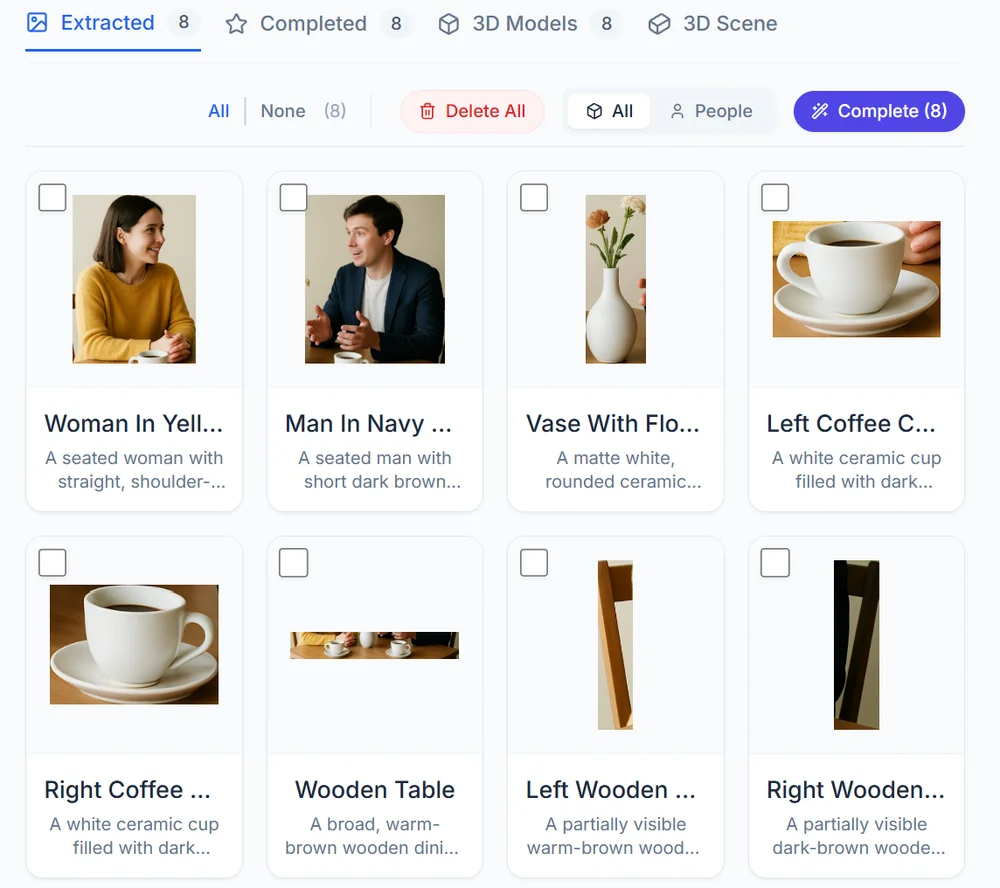
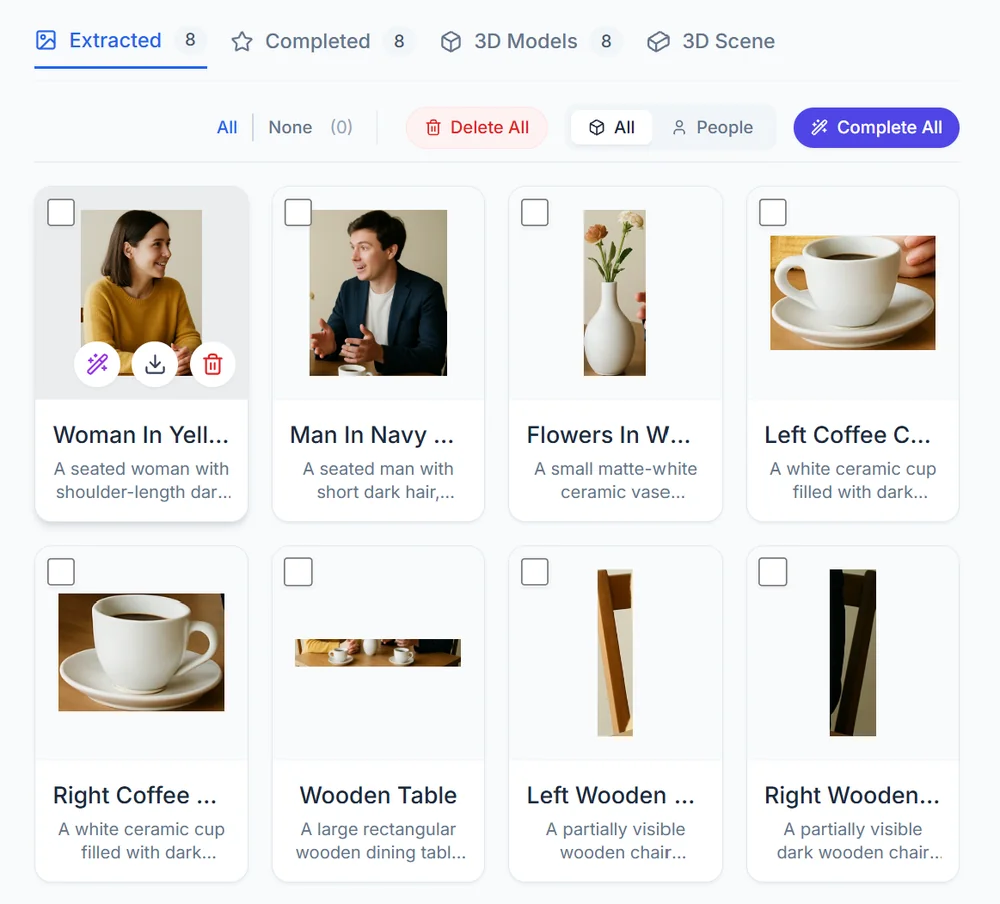
OpenAI by default; RMBG disabled with OpenAI completion; new README images
- AI Settings: OpenAI is the default provider for detection and completion
  and is listed before Gemini (providers, keys, models); RMBG 2.0 is listed
  before 3.0. The background-removal choice and its Space fields are disabled
  while OpenAI does the completion (its output is already transparent).
- README images replaced with current results (OpenAI + TRELLIS.2, scene with
  orientation estimation, paper placement); captions updated (EN/JP)
- README tables, .env.example order, CHANGELOG

Claude-Session: https://claude.ai/code/session_017F2L64VSaLMVjz2Lii7x6Z

diff --git a/components/AISettingsDialog.tsx b/components/AISettingsDialog.tsx
@@ -1,7 +1,7 @@
 import React from 'react';
 import { X, RotateCcw } from 'lucide-react';
 import { AIKeys, AIModels, AIProvider, AISettings, HFSpaces } from '../types';
-import { BG_REMOVAL_LABELS, BG_REMOVAL_SPACE_KEY, DEFAULT_MODELS, DEFAULT_SPACES, MODEL_SUGGESTIONS, PROVIDER_LABELS } from '../services/ai/models';
+import { BG_REMOVAL_LABELS, BG_REMOVAL_SPACE_KEY, DEFAULT_MODELS, DEFAULT_SPACES, MODEL_SUGGESTIONS, PROVIDER_LABELS, usesBgRemoval } from '../services/ai/models';
 
 interface Props {
   settings: AISettings;
@@ -10,13 +10,13 @@ interface Props {
 }
 
 const KEY_FIELDS: { key: keyof AIKeys; label: string; placeholder: string }[] = [
-  { key: 'gemini', label: 'Google Gemini API key', placeholder: 'AIza...' },
   { key: 'openai', label: 'OpenAI API key', placeholder: 'sk-...' },
+  { key: 'gemini', label: 'Google Gemini API key', placeholder: 'AIza...' },
 ];
 
 const SPACE_FIELDS: { key: keyof HFSpaces; label: string }[] = [
-  { key: 'rmbg', label: 'BRIA RMBG 3.0' },
   { key: 'rmbg2', label: 'BRIA RMBG 2.0' },
+  { key: 'rmbg', label: 'BRIA RMBG 3.0' },
   { key: 'depth', label: 'Depth estimation' },
   { key: 'trellis', label: 'TRELLIS.2' },
   { key: 'hunyuan3d', label: 'Hunyuan3D-2.1' },
@@ -24,24 +24,26 @@ const SPACE_FIELDS: { key: keyof HFSpaces; label: string }[] = [
 ];
 
 const MODEL_FIELDS: { key: keyof AIModels; label: string; provider: AIProvider; role: 'vision' | 'image' }[] = [
-  { key: 'geminiVision', label: 'Gemini (detection)', provider: 'gemini', role: 'vision' },
   { key: 'openaiVision', label: 'OpenAI (detection)', provider: 'openai', role: 'vision' },
-  { key: 'geminiImage', label: 'Gemini (completion)', provider: 'gemini', role: 'image' },
+  { key: 'geminiVision', label: 'Gemini (detection)', provider: 'gemini', role: 'vision' },
   { key: 'openaiImage', label: 'OpenAI (completion)', provider: 'openai', role: 'image' },
+  { key: 'geminiImage', label: 'Gemini (completion)', provider: 'gemini', role: 'image' },
 ];
 
-const SegmentedButtons = <T extends string>({ options, value, onSelect }: {
+const SegmentedButtons = <T extends string>({ options, value, onSelect, disabled = false }: {
   options: Record<T, string>;
   value: T;
   onSelect: (value: T) => void;
+  disabled?: boolean;
 }) => (
-  <div className="inline-flex bg-slate-100 rounded-lg p-0.5">
+  <div className={`inline-flex bg-slate-100 rounded-lg p-0.5 ${disabled ? 'opacity-50' : ''}`}>
     {(Object.keys(options) as T[]).map(option => (
       <button
         key={option}
         type="button"
+        disabled={disabled}
         onClick={() => onSelect(option)}
-        className={`px-3 py-1 text-sm rounded-md transition-colors ${value === option ? 'bg-white text-blue-700 font-medium shadow-sm' : 'text-slate-500 hover:text-slate-700'}`}
+        className={`px-3 py-1 text-sm rounded-md transition-colors disabled:cursor-not-allowed ${value === option ? 'bg-white text-blue-700 font-medium shadow-sm' : 'text-slate-500 enabled:hover:text-slate-700'}`}
       >
         {options[option]}
       </button>
@@ -57,8 +59,9 @@ export const AISettingsDialog: React.FC<Props> = ({ settings, onChange, onClose 
 
   const neededKeys = new Set<AIProvider>([settings.visionProvider, settings.imageProvider]);
   // Only the Space of the selected background-removal model is used
+  const bgRemovalUsed = usesBgRemoval(settings);
   const isSpaceActive = (key: keyof HFSpaces) =>
-    (key !== 'rmbg' && key !== 'rmbg2') || key === BG_REMOVAL_SPACE_KEY[settings.bgRemoval];
+    (key !== 'rmbg' && key !== 'rmbg2') || (bgRemovalUsed && key === BG_REMOVAL_SPACE_KEY[settings.bgRemoval]);
   const isActive = (field: typeof MODEL_FIELDS[number]) =>
     field.role === 'vision' ? field.provider === settings.visionProvider : field.provider === settings.imageProvider;
 
@@ -102,9 +105,12 @@ export const AISettingsDialog: React.FC<Props> = ({ settings, onChange, onClose 
                 options={BG_REMOVAL_LABELS}
                 value={settings.bgRemoval}
                 onSelect={bgRemoval => update({ bgRemoval })}
+                disabled={!bgRemovalUsed}
               />
               <p className="mt-1 text-xs text-slate-500">
-                Used after Gemini completion (OpenAI completions are already transparent). RMBG 3.0 is the newer model; RMBG 2.0 is much lighter (a duplicate runs on a T4).
+                {bgRemovalUsed
+                  ? 'Used after Gemini completion. RMBG 2.0 is much lighter (a duplicate runs on a T4); RMBG 3.0 is the newer model.'
+                  : 'Not used: OpenAI completions already have a transparent background.'}
               </p>
             </div>
           </section>
@@ -185,7 +191,8 @@ export const AISettingsDialog: React.FC<Props> = ({ settings, onChange, onClose 
                   value={settings.spaces[field.key]}
                   placeholder={DEFAULT_SPACES[field.key]}
                   onChange={e => setSpace(field.key, e.target.value)}
-                  className="flex-1 min-w-0 px-2 py-1 text-sm border border-slate-300 rounded-md focus:outline-none focus:border-blue-500 font-mono"
+                  disabled={(field.key === 'rmbg' || field.key === 'rmbg2') && !bgRemovalUsed}
+                  className="flex-1 min-w-0 px-2 py-1 text-sm border border-slate-300 rounded-md focus:outline-none focus:border-blue-500 font-mono disabled:bg-slate-50 disabled:text-slate-400"
                 />
               </label>
             ))}

diff --git a/services/ai/models.ts b/services/ai/models.ts
@@ -41,15 +41,23 @@ export const MODEL_SUGGESTIONS: Record<keyof AIModels, string[]> = {
   openaiImage: ['gpt-image-2.6-sunburst', 'gpt-image-2.6-flare', 'gpt-image-2'],
 };
 
+// Key order is the display order (OpenAI first: it is the default)
 export const PROVIDER_LABELS: Record<AIProvider, string> = {
-  gemini: 'Gemini',
   openai: 'OpenAI',
+  gemini: 'Gemini',
 };
 
+// Key order is the display order
 export const BG_REMOVAL_LABELS: Record<BgRemovalModel, string> = {
-  rmbg3: 'RMBG 3.0',
   rmbg2: 'RMBG 2.0',
+  rmbg3: 'RMBG 3.0',
 };
+
+/**
+ * True when background removal is used: only after Gemini completion.
+ * OpenAI completions already have a transparent background.
+ */
+export const usesBgRemoval = (settings: AISettings): boolean => settings.imageProvider !== 'openai';
 
 /** Space settings key of each background-removal model */
 export const BG_REMOVAL_SPACE_KEY: Record<BgRemovalModel, keyof HFSpaces> = {
@@ -91,8 +99,8 @@ const FORMER_DEFAULTS: { models: Partial<Record<keyof AIModels, string[]>>; spac
  */
 export const loadAISettings = (): AISettings => {
   const settings: AISettings = {
-    visionProvider: 'gemini',
-    imageProvider: 'gemini',
+    visionProvider: 'openai',
+    imageProvider: 'openai',
     bgRemoval: 'rmbg3',
     keys: {
       gemini: import.meta.env.VITE_GEMINI_API_KEY || '',

diff --git a/README-jp.md b/README-jp.md
@@ -25,9 +25,9 @@
 
 | # | フェーズ | 手法 |
 |---|---|---|
-| 1 | 物体検出 | VLM（Gemini または OpenAI）でバウンディングボックス、ラベル、詳細な説明（姿勢・動作・服装）を取得 |
+| 1 | 物体検出 | VLM（OpenAI または Gemini）でバウンディングボックス、ラベル、詳細な説明（姿勢・動作・服装）を取得 |
 | 2 | 切り出し | HTML5 Canvas API |
-| 3 | 画像補完 | 生成AI（Gemini または OpenAI の画像生成）によるアウトペインティングで、姿勢を保ったまま隠れた部分や切れた部分を復元し、背景を除去（BRIA RMBG 3.0 または 2.0） |
+| 3 | 画像補完 | 生成AI（OpenAI または Gemini の画像生成）によるアウトペインティングで、姿勢を保ったまま隠れた部分や切れた部分を復元。OpenAI は透明背景で返し、Gemini の場合は背景を除去（BRIA RMBG 2.0 または 3.0） |
 | 4 | 特徴点マッチング | AKAZE（OpenCV.js）、Lowe's Ratio Test、RANSAC による拡大率と移動量の推定（複数の縮小率で探索）で、元の切り出し画像が補完画像のどこにあたるかを特定（信頼できない場合は物体全体の枠を使用） |
 | 5 | 深度推定 | Depth Anything V2。物体の深度はマスク内の深度の中央値 |
 | 6 | 3D生成 | TRELLIS.2 または Hunyuan3D-2.1（Hugging Face Spaces）でテクスチャ付きGLBを生成 |
@@ -36,25 +36,27 @@
 
 ### 処理の流れ（サンプル画像）
 
+OpenAI（物体検出と画像補完）と TRELLIS.2（3D生成）を使った結果です。下の3Dシーンは、向きの推定を適用し、論文の配置（遠近による大きさの補正なし）で表示しています。
+
 <table>
   <tr>
     <td width="50%"><img src="docs/images/step1-detection.webp" alt="物体検出"><br><sub><b>1. 物体検出</b>：VLM が8物体のラベルと枠を取得</sub></td>
     <td width="50%"><img src="docs/images/step2-extracted.webp" alt="切り出し"><br><sub><b>2. 切り出し</b>：物体ごとに写真から切り出す</sub></td>
   </tr>
   <tr>
-    <td width="50%"><img src="docs/images/step3-completed.webp" alt="画像補完"><br><sub><b>3. 画像補完</b>：隠れた部分を生成し、背景を除去</sub></td>
+    <td width="50%"><img src="docs/images/step3-completed.webp" alt="画像補完"><br><sub><b>3. 画像補完</b>：隠れた部分を透明背景で生成（OpenAI）。緑の枠は写真に写っていた部分</sub></td>
     <td width="50%"><img src="docs/images/step4-3d-models.webp" alt="3Dモデル"><br><sub><b>6. 3D生成</b>：物体ごとにテクスチャ付き3Dモデルを生成（TRELLIS.2）</sub></td>
   </tr>
   <tr>
     <td width="50%"><img src="docs/images/step5-depth-map.webp" alt="深度マップ"><br><sub><b>5. 深度推定</b>：Depth Anything V2（明るいほど手前）</sub></td>
-    <td width="50%"><img src="docs/images/scene-result.webp" alt="3Dシーン"><br><sub><b>7. シーン合成</b>：各モデルを PC Box の奥行きに配置（人物、花瓶、カップ）</sub></td>
+    <td width="50%"><img src="docs/images/scene-result.webp" alt="3Dシーン"><br><sub><b>7〜8. シーン合成と向きの推定</b>：8つのモデルを PC Box の奥行きに配置し、推定した向きに回転</sub></td>
   </tr>
 </table>
 
 ## 必要な環境
 
 - Node.js 18以上
-- **Google Gemini または OpenAI の APIキー**（物体検出と画像補完で別々のプロバイダーを使う場合は両方）
+- **OpenAI または Google Gemini の APIキー**（物体検出と画像補完で別々のプロバイダーを使う場合は両方）
 - **Hugging Face トークン**（TRELLIS.2 / Hunyuan3D-2.1 による3D生成では必須。背景除去と深度推定でも推奨。ZeroGPUの利用分が各自の枠で計上されます）。Hugging Face の **Settings → Access Tokens** で **Read** のトークンを作り、アプリの画面右上の **HF Token** 欄に入力します。詳しくは [docs/hugging-face-spaces-jp.md](docs/hugging-face-spaces-jp.md) を参照してください
 
 ## セットアップ
@@ -94,10 +96,10 @@ AI Settings では次の項目を設定できます。
 
 | 項目 | 内容 |
 |---|---|
-| Object detection & checks | 物体検出・チェックに使う AI（Gemini / OpenAI） |
-| Image completion | 画像補完に使う AI（Gemini / OpenAI） |
-| Background removal | 背景除去のモデル（RMBG 3.0 / RMBG 2.0） |
-| API keys | Gemini と OpenAI の API キー |
+| Object detection & checks | 物体検出・チェックに使う AI（OpenAI / Gemini。既定は OpenAI） |
+| Image completion | 画像補完に使う AI（OpenAI / Gemini。既定は OpenAI） |
+| Background removal | 背景除去のモデル（RMBG 2.0 / RMBG 3.0）。Gemini で補完するときだけ使い、OpenAI を選んでいる間は選択できない |
+| API keys | OpenAI と Gemini の API キー |
 | Models | 使うモデルの ID |
 | Hugging Face Spaces | 背景除去・深度推定・3D 生成で使う Space の ID（複製した Space など） |
 
@@ -105,11 +107,12 @@ AI Settings では次の項目を設定できます。
 
 | 処理 | プロバイダー | 既定のモデル |
 |---|---|---|
-| 物体検出、キャンバス拡張量の推定、補完結果のチェック | Gemini / OpenAI | `gemini-pro-latest` / `gpt-5.6-sol` |
-| 画像補完（アウトペインティング） | Gemini / OpenAI | `gemini-3-pro-image` / `gpt-image-2.6-sunburst` |
+| 物体検出、キャンバス拡張量の推定、補完結果のチェック | OpenAI / Gemini | `gpt-5.6-sol` / `gemini-pro-latest` |
+| 画像補完（アウトペインティング） | OpenAI / Gemini | `gpt-image-2.6-sunburst` / `gemini-3-pro-image` |
 
 - OpenAI は補完画像を透明背景で返します。Gemini は透明背景を出力できないため、補完後に背景除去を行います。背景除去に失敗した場合は、補完画像のカードに表示されます。
-- 背景除去には **BRIA RMBG 3.0**（既定）または **BRIA RMBG 2.0** を使います。AI Settings の **Background removal** で選べます。どちらの Space も API は同じです。RMBG 2.0 はずっと軽く、複製すれば T4 で動きます。
+- 物体検出と画像補完の既定は、どちらも OpenAI です。
+- 背景除去には **BRIA RMBG 2.0** または **BRIA RMBG 3.0**（既定）を使います。AI Settings の **Background removal** で選べます。OpenAI で補完している間は背景除去を使わないので、選択できなくなります。どちらの Space も API は同じです。RMBG 2.0 はずっと軽く、複製すれば T4 で動きます。
 - モデルIDは頻繁に変わります。モデルが提供終了になった場合は、AI Settings で新しいIDを入力してください。コードの変更は不要です。
 - 論文の結果は `gemini-3-pro-preview` と `gemini-3-pro-image-preview`（どちらも提供終了）で得たものです。他のプロバイダーやモデルでも同じプロンプトを使いますが、検出精度や姿勢の保持には差が出る可能性があります。
 - APIキーはメモリ上にだけ保持します。プロバイダーとモデルIDはブラウザに記憶されます。
@@ -156,7 +159,7 @@ AI Settings では次の項目を設定できます。
 ├── components/             # Reactコンポーネント（3Dビューア、カード、オーバーレイ）
 ├── services/
 │   ├── aiService.ts        # 物体検出・補完・チェックのプロンプト
-│   └── ai/                 # プロバイダー層（Gemini / OpenAI）と既定のモデル
+│   └── ai/                 # プロバイダー層（OpenAI / Gemini）と既定のモデル
 ├── utils.ts                # 切り出し、AKAZEマッチング、深度推定、3D生成API
 ├── types.ts                # 型定義
 ├── samples/                # サンプル画像

diff --git a/README.md b/README.md
@@ -25,9 +25,9 @@ The sample photo [`samples/two-people-at-table.webp`](samples/two-people-at-tabl
 
 | # | Phase | Method |
 |---|---|---|
-| 1 | Object detection | Vision-Language Model (Gemini or OpenAI) returns bounding boxes, labels and detailed descriptions (pose, action, clothing) |
+| 1 | Object detection | Vision-Language Model (OpenAI or Gemini) returns bounding boxes, labels and detailed descriptions (pose, action, clothing) |
 | 2 | Cropping | HTML5 Canvas API |
-| 3 | Image completion | Generative AI outpainting (Gemini or OpenAI image generation) restores occluded / cut-off parts while preserving pose, followed by background removal (BRIA RMBG 3.0 or 2.0) |
+| 3 | Image completion | Generative AI outpainting (OpenAI or Gemini image generation) restores occluded / cut-off parts while preserving pose. OpenAI returns a transparent background; Gemini completions go through background removal (BRIA RMBG 2.0 or 3.0) |
 | 4 | Feature matching | AKAZE (OpenCV.js) + Lowe's ratio test + RANSAC fit of a scale + translation, searched at several image scales, to localize the original crop inside the completed image (unreliable matches fall back to the whole object) |
 | 5 | Depth estimation | Depth Anything V2; object depth is the median depth inside the object mask |
 | 6 | 3D generation | TRELLIS.2 or Hunyuan3D-2.1 (Hugging Face Spaces) → textured GLB |
@@ -36,25 +36,27 @@ The sample photo [`samples/two-people-at-table.webp`](samples/two-people-at-tabl
 
 ### Walkthrough (sample photo)
 
+Results with OpenAI (detection and completion) and TRELLIS.2 (3D generation). The scene below uses orientation estimation and the paper's placement (without the perspective size correction).
+
 <table>
   <tr>
     <td width="50%"><img src="docs/images/step1-detection.webp" alt="Object detection"><br><sub><b>1. Detection</b> — 8 objects with labels and boxes (VLM)</sub></td>
     <td width="50%"><img src="docs/images/step2-extracted.webp" alt="Extracted objects"><br><sub><b>2. Cropping</b> — each object cut out of the photo</sub></td>
   </tr>
   <tr>
-    <td width="50%"><img src="docs/images/step3-completed.webp" alt="Completed objects"><br><sub><b>3. Completion</b> — hidden parts generated, background removed</sub></td>
+    <td width="50%"><img src="docs/images/step3-completed.webp" alt="Completed objects"><br><sub><b>3. Completion</b> — hidden parts generated with a transparent background (OpenAI); the green box marks the part visible in the photo</sub></td>
     <td width="50%"><img src="docs/images/step4-3d-models.webp" alt="3D models"><br><sub><b>6. 3D generation</b> — one textured 3D model per object (TRELLIS.2)</sub></td>
   </tr>
   <tr>
     <td width="50%"><img src="docs/images/step5-depth-map.webp" alt="Depth map"><br><sub><b>5. Depth estimation</b> — Depth Anything V2 (brighter = nearer)</sub></td>
-    <td width="50%"><img src="docs/images/scene-result.webp" alt="3D scene"><br><sub><b>7. Scene composition</b> — models placed at the depth of their PC Boxes (people, vase and cups)</sub></td>
+    <td width="50%"><img src="docs/images/scene-result.webp" alt="3D scene"><br><sub><b>7–8. Scene composition and orientation</b> — all 8 models placed at the depth of their PC Boxes and rotated by their estimated orientation</sub></td>
   </tr>
 </table>
 
 ## Requirements
 
 - Node.js 18 or later
-- **An API key for Google Gemini or OpenAI** (or both, if you use one for detection and the other for completion)
+- **An API key for OpenAI or Google Gemini** (or both, if you use one for detection and the other for completion)
 - **Hugging Face token** (required for 3D generation with TRELLIS.2 / Hunyuan3D-2.1; recommended for background removal and depth estimation, since ZeroGPU usage is counted against your own quota). Create a **Read** token in **Settings → Access Tokens** on Hugging Face and enter it in the **HF Token** field at the top right of the app; see [docs/hugging-face-spaces.md](docs/hugging-face-spaces.md)
 
 ## Setup
@@ -94,10 +96,10 @@ In AI Settings you can set:
 
 | Section | What it sets |
 |---|---|
-| Object detection & checks | Provider for detection and checks (Gemini / OpenAI) |
-| Image completion | Provider for completion (Gemini / OpenAI) |
-| Background removal | Background-removal model (RMBG 3.0 / RMBG 2.0) |
-| API keys | Gemini and OpenAI API keys |
+| Object detection & checks | Provider for detection and checks (OpenAI / Gemini; default OpenAI) |
+| Image completion | Provider for completion (OpenAI / Gemini; default OpenAI) |
+| Background removal | Background-removal model (RMBG 2.0 / RMBG 3.0). Only used with Gemini completion; disabled when OpenAI is selected |
+| API keys | OpenAI and Gemini API keys |
 | Models | Model IDs |
 | Hugging Face Spaces | Space IDs for background removal, depth estimation and 3D generation (e.g. your duplicated Spaces) |
 
@@ -105,11 +107,12 @@ Default models:
 
 | Task | Providers | Default model |
 |---|---|---|
-| Object detection, canvas expansion estimate, completion check | Gemini / OpenAI | `gemini-pro-latest` / `gpt-5.6-sol` |
-| Image completion (outpainting) | Gemini / OpenAI | `gemini-3-pro-image` / `gpt-image-2.6-sunburst` |
+| Object detection, canvas expansion estimate, completion check | OpenAI / Gemini | `gpt-5.6-sol` / `gemini-pro-latest` |
+| Image completion (outpainting) | OpenAI / Gemini | `gpt-image-2.6-sunburst` / `gemini-3-pro-image` |
 
 - OpenAI returns completions with a transparent background. Gemini cannot, so its completions go through background removal; a failed removal is marked on the completed card.
-- Background removal uses **BRIA RMBG 3.0** (default) or **BRIA RMBG 2.0**, selected under **Background removal** in AI Settings. Both Spaces have the same API; RMBG 2.0 is much lighter, so a duplicate of it runs on a T4.
+- OpenAI is the default for both detection and completion.
+- Background removal uses **BRIA RMBG 2.0** or **BRIA RMBG 3.0** (default), selected under **Background removal** in AI Settings. The choice is disabled while OpenAI does the completion, since it is not used then. Both Spaces have the same API; RMBG 2.0 is much lighter, so a duplicate of it runs on a T4.
 - Model IDs change often. If a model is retired, type a new ID in AI Settings; no code change is needed.
 - The results in the paper were obtained with `gemini-3-pro-preview` and `gemini-3-pro-image-preview` (both since shut down). Other providers and models use the same prompts, but detection accuracy and pose preservation may differ.
 - API keys are kept in memory only. Providers and model IDs are remembered in the browser.
@@ -156,7 +159,7 @@ Projects (images, depth map, models and scene layout) can be saved and loaded.
 ├── components/             # React components (3D viewers, cards, overlays)
 ├── services/
 │   ├── aiService.ts        # Prompts for detection, completion and checks
-│   └── ai/                 # Provider layer (Gemini / OpenAI) and default models
+│   └── ai/                 # Provider layer (OpenAI / Gemini) and default models
 ├── utils.ts                # Cropping, AKAZE matching, depth, 3D generation APIs
 ├── types.ts                # Type definitions
 ├── samples/                # Sample photo

diff --git a/CHANGELOG.md b/CHANGELOG.md
@@ -4,6 +4,8 @@ All notable changes to this project. Versions up to v1.18.1 were developed in th
 
 
 ## Unreleased
+- **Changed** OpenAI is now the default provider for detection and completion, and is listed before Gemini in AI Settings; RMBG 2.0 is listed before RMBG 3.0. The background-removal choice and its Space fields are disabled while OpenAI does the completion (OpenAI completions are already transparent).
+- **Changed** README images updated with the current results (OpenAI + TRELLIS.2, scene with orientation estimation).
 - **Added** perspective placement in the 3D scene (**Perspective** checkbox, on by default). The point cloud, PC Boxes and models are back-projected through a pinhole camera (assumed 60° horizontal field of view), and the depth map is read as disparity (inverse depth), as output by Depth Anything V2. Objects near the camera (e.g. cups) are no longer magnified, and the scene starts from the photo's camera. Unchecking it reproduces the paper's placement.
 - **Added** orientation estimation (**Estimate Orientation** in the 3D Scene header). [Orient Anything](https://huggingface.co/spaces/Viglong/Orient-Anything) estimates the viewer's azimuth for the completed image and for a front render of each model; models are rotated about the vertical axis by `view angle + azimuth(model) − azimuth(photo)` before they are scaled to their PC Box. Objects without a clear front are not rotated. The angles are shown per model, saved with the project, and can be turned off with the **Orientation** checkbox. The Space ID is configurable in AI Settings.
 - **Fixed** the 3D scene could sometimes stay empty (no background, no models) when first shown. The canvas now follows the size of its container (a container that still had zero size left a 0×0 canvas), and the scene is rebuilt when the browser drops its WebGL context.
